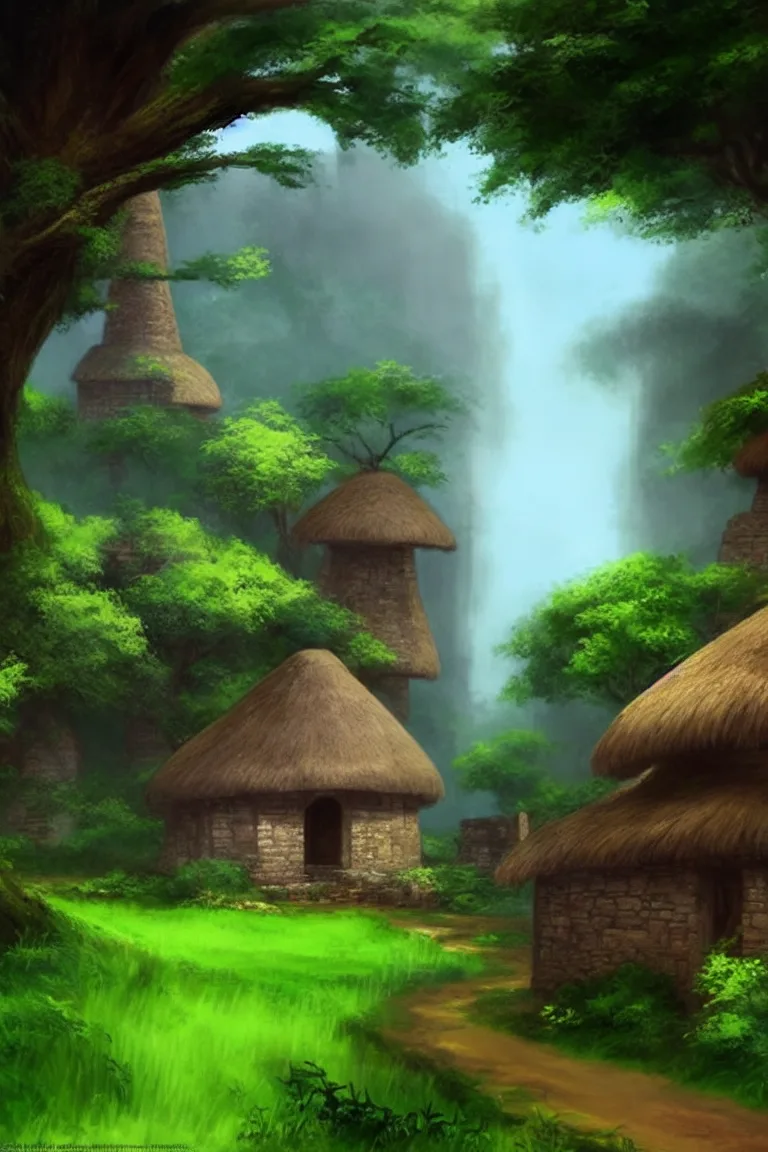
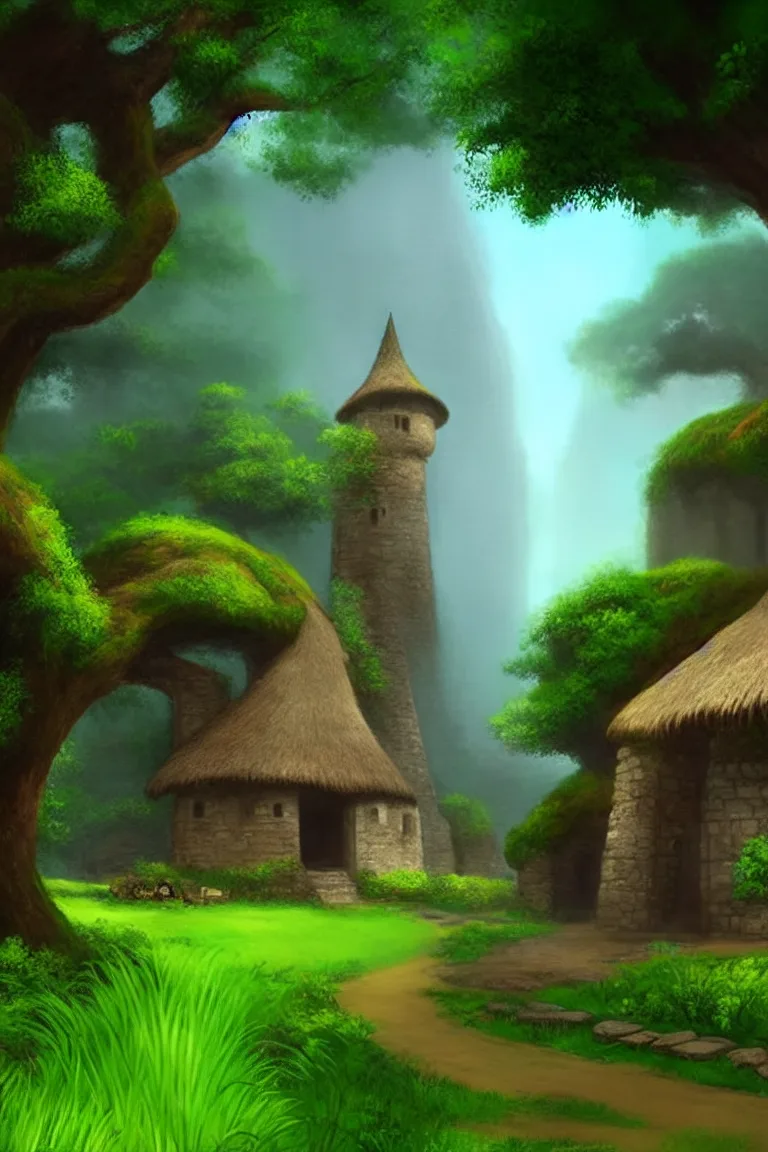
fix(rpg): 入門星/資料礦場橫幅改用 v2（依使用者挑選），荒野 v1、議會 v2 維持

diff --git a/rpg-domain-banner.js b/rpg-domain-banner.js
@@ -2,8 +2,8 @@
 // 不改 rpg.js／rpg.html 既有邏輯：只包裝 RPGEngine.prototype.enterDomain，進入星域前顯示簡報卡；音樂僅在使用者點擊後播放，離開星域（回地圖）停止。
 (function () {
   const BANNERS = {
-    INTRO: { img: 'assets/domain_banners/INTRO.webp?v=2', tip: '叢林空地上的石屋聚落——每位見習士降落 AI 宇宙的第一站。', music: 'explore' },
-    DATA:  { img: 'assets/domain_banners/DATA.webp?v=2',  tip: '穿過洞穴石拱，礦脈深處埋藏著待淘洗的資料。', music: 'explore' },
+    INTRO: { img: 'assets/domain_banners/INTRO.webp?v=3', tip: '叢林空地上的石屋聚落——每位見習士降落 AI 宇宙的第一站。', music: 'explore' },
+    DATA:  { img: 'assets/domain_banners/DATA.webp?v=3',  tip: '穿過洞穴石拱，礦脈深處埋藏著待淘洗的資料。', music: 'explore' },
     SL:    { img: 'assets/domain_banners/SL.webp?v=4',    tip: '苔蘚覆蓋的古老石柱神殿，守護者在此監督每一次學習。', music: 'explore' },
     UL:    { img: 'assets/domain_banners/UL.webp?v=2',    tip: '霧中河谷的殘牆——沒有標籤、沒有答案，只有等待你發現的結構。', music: 'explore' },
     ADV:   { img: 'assets/domain_banners/ADV.webp?v=2',   tip: '懸崖石索橋通往山頂要塞，中級議會正在等你。', music: null },

diff --git a/rpg.html b/rpg.html
@@ -1721,7 +1721,7 @@ function _typewriter(el, text, done, speed=28) {
 <script src="rpg-grimoire.js"></script>
 <script src="rpg-npc-agent.js"></script>
 <script src="rpg.js"></script>
-<script src="rpg-domain-banner.js?v=20261011e"></script>
+<script src="rpg-domain-banner.js?v=20261011f"></script>
 <script>
 // ── 角色創建系統（HermesAgent 設計）──────────────────────────────
 const CHAR_STORAGE_KEY = 'rpg_char_profile';
